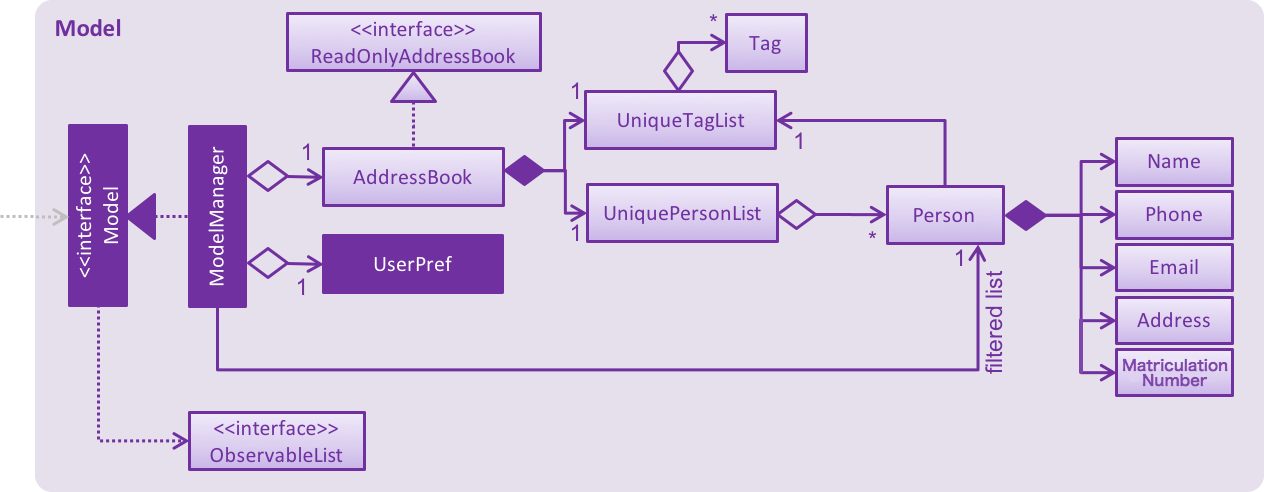
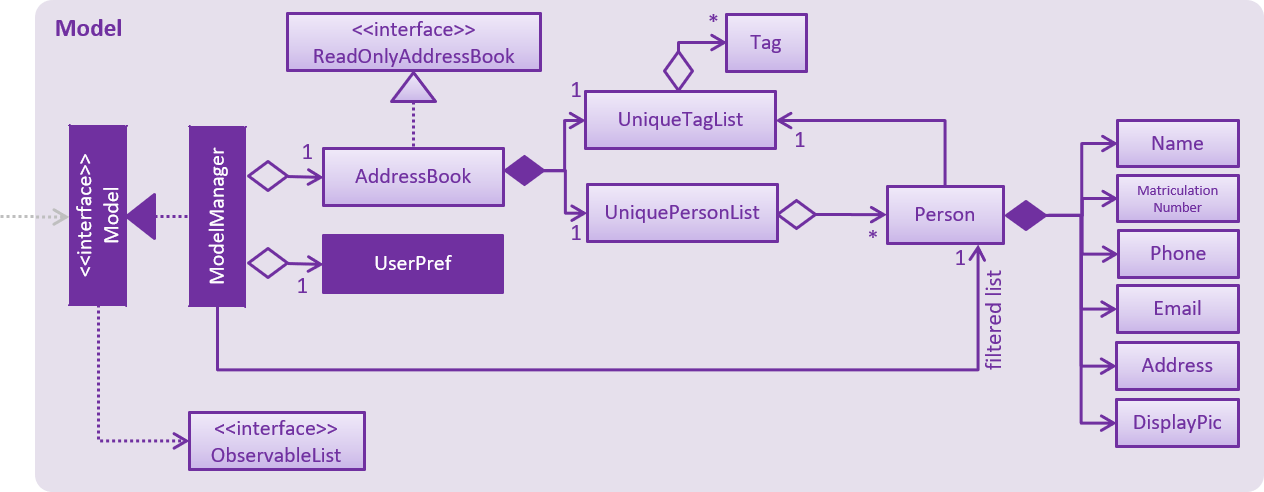
Rebuild pages at 36e25744da336f6b68cbcf2d7cb0986db1ebabbb

diff --git a/DeveloperGuide.html b/DeveloperGuide.html
@@ -47,9 +47,11 @@
 <ul class="sectlevel2">
 <li><a href="#help-feature">3.1. Help feature</a></li>
 <li><a href="#undo-redo-feature">3.2. Undo/Redo feature</a></li>
-<li><a href="#proposed-data-encryption">3.3. [Proposed] Data Encryption</a></li>
-<li><a href="#logging">3.4. Logging</a></li>
-<li><a href="#Implementation-Configuration">3.5. Configuration</a></li>
+<li><a href="#proposed-data-encryption-coming-in-v2-0">3.3. [Proposed] Data Encryption (Coming in v2.0)</a></li>
+<li><a href="#email-since-v1-1">3.4. Email (Since v1.1)</a></li>
+<li><a href="#display-picture-since-v1-2">3.5. Display Picture (Since v1.2)</a></li>
+<li><a href="#logging">3.6. Logging</a></li>
+<li><a href="#Implementation-Configuration">3.7. Configuration</a></li>
 </ul>
 </li>
 <li><a href="#documentation">4. Documentation</a>
@@ -1129,20 +1131,149 @@ If the <code>redoStack</code> is empty, then there are no other commands left to
 </div>
 </div>
 <div class="sect2">
-<h3 id="proposed-data-encryption"><a class="link" href="#proposed-data-encryption">3.3. [Proposed] Data Encryption</a></h3>
+<h3 id="proposed-data-encryption-coming-in-v2-0"><a class="link" href="#proposed-data-encryption-coming-in-v2-0">3.3. [Proposed] Data Encryption (Coming in v2.0)</a></h3>
 <div class="paragraph">
 <p><em>{Explain here how the data encryption feature will be implemented}</em></p>
 </div>
 </div>
 <div class="sect2">
-<h3 id="logging"><a class="link" href="#logging">3.4. Logging</a></h3>
+<h3 id="email-since-v1-1"><a class="link" href="#email-since-v1-1">3.4. Email (Since v1.1)</a></h3>
+<div class="paragraph">
+<p>This feature allows the user to call their desktop mail application from the application itself, with the to: field already populated.</p>
+</div>
+<div class="sect3">
+<h4 id="current-implementation-3"><a class="link" href="#current-implementation-3">3.4.1. Current implementation</a></h4>
+<div class="imageblock">
+<div class="content">
+<img src="images/EmailComponentFlow.png" alt="EmailComponentFlow" width="800">
+</div>
+</div>
+<div class="paragraph">
+<p><div align="center"><b>Figure 3.3.1: Email Implementation</b></div></p>
+</div>
+<div class="paragraph">
+<p>The user will enter a command <code>email 1</code> to the application. The application will then rely on <code>AddressBookparser</code> and <code>EmailCommandParser</code> to
+parse the argument. The argument will be passed into the EmailCommand when it will be checked on whether the argument is valid. From there, it will
+call the Java <code>Desktop</code> class to launch the user&#8217;s default mail application.</p>
+</div>
+</div>
+<div class="sect3">
+<h4 id="design-considerations-2"><a class="link" href="#design-considerations-2">3.4.2. Design Considerations</a></h4>
+<div class="sect4">
+<h5 id="aspect-how-the-email-is-sent"><a class="link" href="#aspect-how-the-email-is-sent">Aspect: How the email is sent</a></h5>
+<div class="ulist">
+<ul>
+<li>
+<p><strong>Alternative 1 (current choice):</strong> Use the Java <code>Desktop</code> class to open the default mail app</p>
+<div class="ulist">
+<ul>
+<li>
+<p>Pros: It is fast and works with supported Desktop and OS.</p>
+</li>
+<li>
+<p>Cons: Does not work on systems wihtout a default Desktop mail application.</p>
+</li>
+</ul>
+</div>
+</li>
+<li>
+<p><strong>Alternative 2:</strong> Use the in-built browser</p>
+<div class="ulist">
+<ul>
+<li>
+<p>Pros: Higher level of compatibility, means it can be used with a wider range of operating systems.</p>
+</li>
+<li>
+<p>Cons: Clunky as users may use different web mail services. The API would also differ based on the email they use as well.</p>
+</li>
+</ul>
+</div>
+</li>
+</ul>
+</div>
+</div>
+</div>
+<div class="sect3">
+<h4 id="future-enhancements-coming-in-v1-3"><a class="link" href="#future-enhancements-coming-in-v1-3">3.4.3. Future enhancements (Coming in v1.3)</a></h4>
+<div class="paragraph">
+<p>Support for writing the subject title in the application as well by adding an extra parameter such as <code>email 1 s/ [SUBJECT]</code>.</p>
+</div>
+</div>
+</div>
+<div class="sect2">
+<h3 id="display-picture-since-v1-2"><a class="link" href="#display-picture-since-v1-2">3.5. Display Picture (Since v1.2)</a></h3>
+<div class="paragraph">
+<p>This feature allows the user to enter a path to their selected image file and copies the image into the <code>images\displayPic</code> folder. This image
+will be shown in the application next to the details of the person.</p>
+</div>
+<div class="sect3">
+<h4 id="current-implementation-4"><a class="link" href="#current-implementation-4">3.5.1. Current implementation</a></h4>
+<div class="paragraph">
+<p>The application will take in the argument through <code>dp/ [PATH TO IMAGE]</code> and then use <code>ImageIO</code> to copy the file.</p>
+</div>
+<div class="paragraph">
+<p><em>{TO BE UPDATED}</em></p>
+</div>
+</div>
+<div class="sect3">
+<h4 id="design-considerations-3"><a class="link" href="#design-considerations-3">3.5.2. Design Considerations</a></h4>
+<div class="ulist">
+<ul>
+<li>
+<p><strong>Alternative 1 (current choice):</strong> Copy the image file over to a designated location</p>
+<div class="ulist">
+<ul>
+<li>
+<p>Pros: The user does not need to maintain the image file, as the application does so itself.</p>
+</li>
+<li>
+<p>Cons: User has to delete the original file if not there will be 2 of the same files on the user&#8217;s storage.</p>
+</li>
+</ul>
+</div>
+</li>
+<li>
+<p><strong>Alternative 2:</strong> Use the location of the file the user put in</p>
+<div class="ulist">
+<ul>
+<li>
+<p>Pros: Potentially less space utilized.</p>
+</li>
+<li>
+<p>Cons: User needs to ensure the file is not moved or deleted.</p>
+</li>
+</ul>
+</div>
+</li>
+</ul>
+</div>
+</div>
+<div class="sect3">
+<h4 id="future-enhancements"><a class="link" href="#future-enhancements">3.5.3. Future enhancements</a></h4>
+<div class="ulist">
+<ul>
+<li>
+<p>Support to delete photo (Coming in v1.3)</p>
+</li>
+<li>
+<p>Support for undo/redo (Coming in v1.4)</p>
+</li>
+<li>
+<p>Support for photo frames (Coming in v1.5)</p>
+</li>
+</ul>
+</div>
+</div>
+</div>
+<div class="sect2">
+<h3 id="logging"><a class="link" href="#logging">3.6. Logging</a></h3>
 <div class="paragraph">
 <p>We are using <code>java.util.logging</code> package for logging. The <code>LogsCenter</code> class is used to manage the logging levels and logging destinations.</p>
 </div>
 <div class="ulist">
 <ul>
 <li>
-<p>The logging level can be controlled using the <code>logLevel</code> setting in the configuration file (See <a href="#Implementation-Configuration">Section 3.5, &#8220;Configuration&#8221;</a>)</p>
+<p>The logging level can be controlled using the <code>logLevel</code> setting in the configuration file (See <a href="#Implementation-Configuration">Section 3.7, &#8220;Configuration&#8221;</a>)</p>
 </li>
 <li>
 <p>The <code>Logger</code> for a class can be obtained using <code>LogsCenter.getLogger(Class)</code> which will log messages according to the specified logging level</p>
@@ -1173,7 +1304,7 @@ If the <code>redoStack</code> is empty, then there are no other commands left to
 </div>
 </div>
 <div class="sect2">
-<h3 id="Implementation-Configuration"><a class="link" href="#Implementation-Configuration">3.5. Configuration</a></h3>
+<h3 id="Implementation-Configuration"><a class="link" href="#Implementation-Configuration">3.7. Configuration</a></h3>
 <div class="paragraph">
 <p>Certain properties of the application can be controlled (e.g App name, logging level) through the configuration file (default: <code>config.json</code>).</p>
 </div>
@@ -2987,7 +3118,7 @@ Expected: Similar to previous.</p>
 </div>
 <div id="footer">
 <div id="footer-text">
-Last updated 2018-03-22 17:18:27 UTC
+Last updated 2018-03-22 17:34:09 UTC
 </div>
 </div>
 </body>

diff --git a/UserGuide.html b/UserGuide.html
@@ -167,7 +167,7 @@ Format: <code>help</code></p>
 <div class="paragraph">
 <p>Adds a person to the address book<br>
 Alias: <code>a</code> and <code>+</code><br>
-Format: <code>add n/NAME m/MATRICULATION NUMBER p/PHONE_NUMBER e/EMAIL a/ADDRESS [t/TAG]&#8230;&#8203;</code></p>
+Format: <code>add n/NAME m/MATRICULATION NUMBER p/PHONE_NUMBER e/EMAIL a/ADDRESS dp/[IMAGE PATH] [t/TAG]&#8230;&#8203;</code></p>
 </div>
 <div class="admonitionblock tip">
 <table>
@@ -177,6 +177,18 @@ Format: <code>add n/NAME m/MATRICULATION NUMBER p/PHONE_NUMBER e/EMAIL a/ADDRESS
 </td>
 <td class="content">
 A person can have any number of tags (including 0)
+</td>
+</tr>
+</table>
+</div>
+<div class="admonitionblock tip">
+<table>
+<tr>
+<td class="icon">
+<i class="fa icon-tip" title="Tip"></i>
+</td>
+<td class="content">
+You can choose not to enter <code>dp/</code> if you do not have picture.
 </td>
 </tr>
 </table>
@@ -753,7 +765,7 @@ e.g.<code>select 2</code></p>
 </div>
 <div id="footer">
 <div id="footer-text">
-Last updated 2018-03-22 17:18:27 UTC
+Last updated 2018-03-22 17:34:09 UTC
 </div>
 </div>
 </body>

diff --git a/team/johndoe.html b/team/johndoe.html
@@ -662,7 +662,7 @@ If the <code>redoStack</code> is empty, then there are no other commands left to
 </div>
 </div>
 <div class="sect2">
-<h3 id="proposed-data-encryption"><a class="link" href="#proposed-data-encryption">[Proposed] Data Encryption</a></h3>
+<h3 id="proposed-data-encryption-coming-in-v2-0"><a class="link" href="#proposed-data-encryption-coming-in-v2-0">[Proposed] Data Encryption (Coming in v2.0)</a></h3>
 <div class="paragraph">
 <p><em>{Explain here how the data encryption feature will be implemented}</em></p>
 </div>
@@ -681,7 +681,7 @@ If the <code>redoStack</code> is empty, then there are no other commands left to
 </div>
 <div id="footer">
 <div id="footer-text">
-Last updated 2018-03-22 17:18:28 UTC
+Last updated 2018-03-22 17:34:09 UTC
 </div>
 </div>
 </body>

diff --git a/index.html b/index.html
@@ -59,9 +59,6 @@
 <p><a href="DeveloperGuide.html">Developer Guide</a></p>
 </li>
 <li>
-<p><a href="LearningOutcomes.html">Learning Outcomes</a></p>
-</li>
-<li>
 <p><a href="AboutUs.html">About Us</a></p>
 </li>
 <li>
@@ -99,7 +96,7 @@
 </div>
 <div id="footer">
 <div id="footer-text">
-Last updated 2018-03-22 17:18:28 UTC
+Last updated 2018-03-22 17:34:09 UTC
 </div>
 </div>
 </body>

diff --git a/LearningOutcomes.html b/LearningOutcomes.html
@@ -561,7 +561,7 @@ class gives some examples of how to use <em>Equivalence Partitions</em>, <em>Bou
 </div>
 <div id="footer">
 <div id="footer-text">
-Last updated 2018-03-22 17:18:27 UTC
+Last updated 2018-03-22 17:34:09 UTC
 </div>
 </div>
 </body>

diff --git a/UsingCoveralls.html b/UsingCoveralls.html
@@ -115,7 +115,7 @@ If you have not set up Travis CI, see <a href="UsingTravis.html">UsingTravis.ado
 </div>
 <div id="footer">
 <div id="footer-text">
-Last updated 2018-03-22 17:18:27 UTC
+Last updated 2018-03-22 17:34:09 UTC
 </div>
 </div>
 </body>

diff --git a/UsingGradle.html b/UsingGradle.html
@@ -264,7 +264,7 @@ See <code>build.gradle</code> &#8594; <code>allprojects</code> &#8594; <code>dep
 </div>
 <div id="footer">
 <div id="footer-text">
-Last updated 2018-03-22 17:18:27 UTC
+Last updated 2018-03-22 17:34:09 UTC
 </div>
 </div>
 </body>

diff --git a/UsingNetlify.html b/UsingNetlify.html
@@ -142,7 +142,7 @@ The publish directory is the directory in which the built HTML documentation res
 </div>
 <div id="footer">
 <div id="footer-text">
-Last updated 2018-03-22 17:18:27 UTC
+Last updated 2018-03-22 17:34:09 UTC
 </div>
 </div>
 </body>

diff --git a/UsingTravis.html b/UsingTravis.html
@@ -299,7 +299,7 @@ Suggested change: Remove the codacy badge from <code>README</code>.</p>
 </div>
 <div id="footer">
 <div id="footer-text">
-Last updated 2018-03-22 17:18:27 UTC
+Last updated 2018-03-22 17:34:09 UTC
 </div>
 </div>
 </body>

diff --git a/UsingCheckstyle.html b/UsingCheckstyle.html
@@ -103,7 +103,7 @@ Restart the IDE to complete the installation.</p>
 </div>
 <div id="footer">
 <div id="footer-text">
-Last updated 2018-03-22 17:18:27 UTC
+Last updated 2018-03-22 17:34:09 UTC
 </div>
 </div>
 </body>

diff --git a/TestDocument.html b/TestDocument.html
@@ -178,7 +178,7 @@ This should be on a new line.</p>
 </div>
 <div id="footer">
 <div id="footer-text">
-Last updated 2018-03-22 17:18:27 UTC
+Last updated 2018-03-22 17:34:09 UTC
 </div>
 </div>
 </body>

diff --git a/UserGuide_BACKUP_9900.html b/UserGuide_BACKUP_9900.html
@@ -593,7 +593,7 @@ e.g.<code>select 2</code></p>
 </div>
 <div id="footer">
 <div id="footer-text">
-Last updated 2018-03-22 17:18:27 UTC
+Last updated 2018-03-22 17:34:09 UTC
 </div>
 </div>
 </body>
